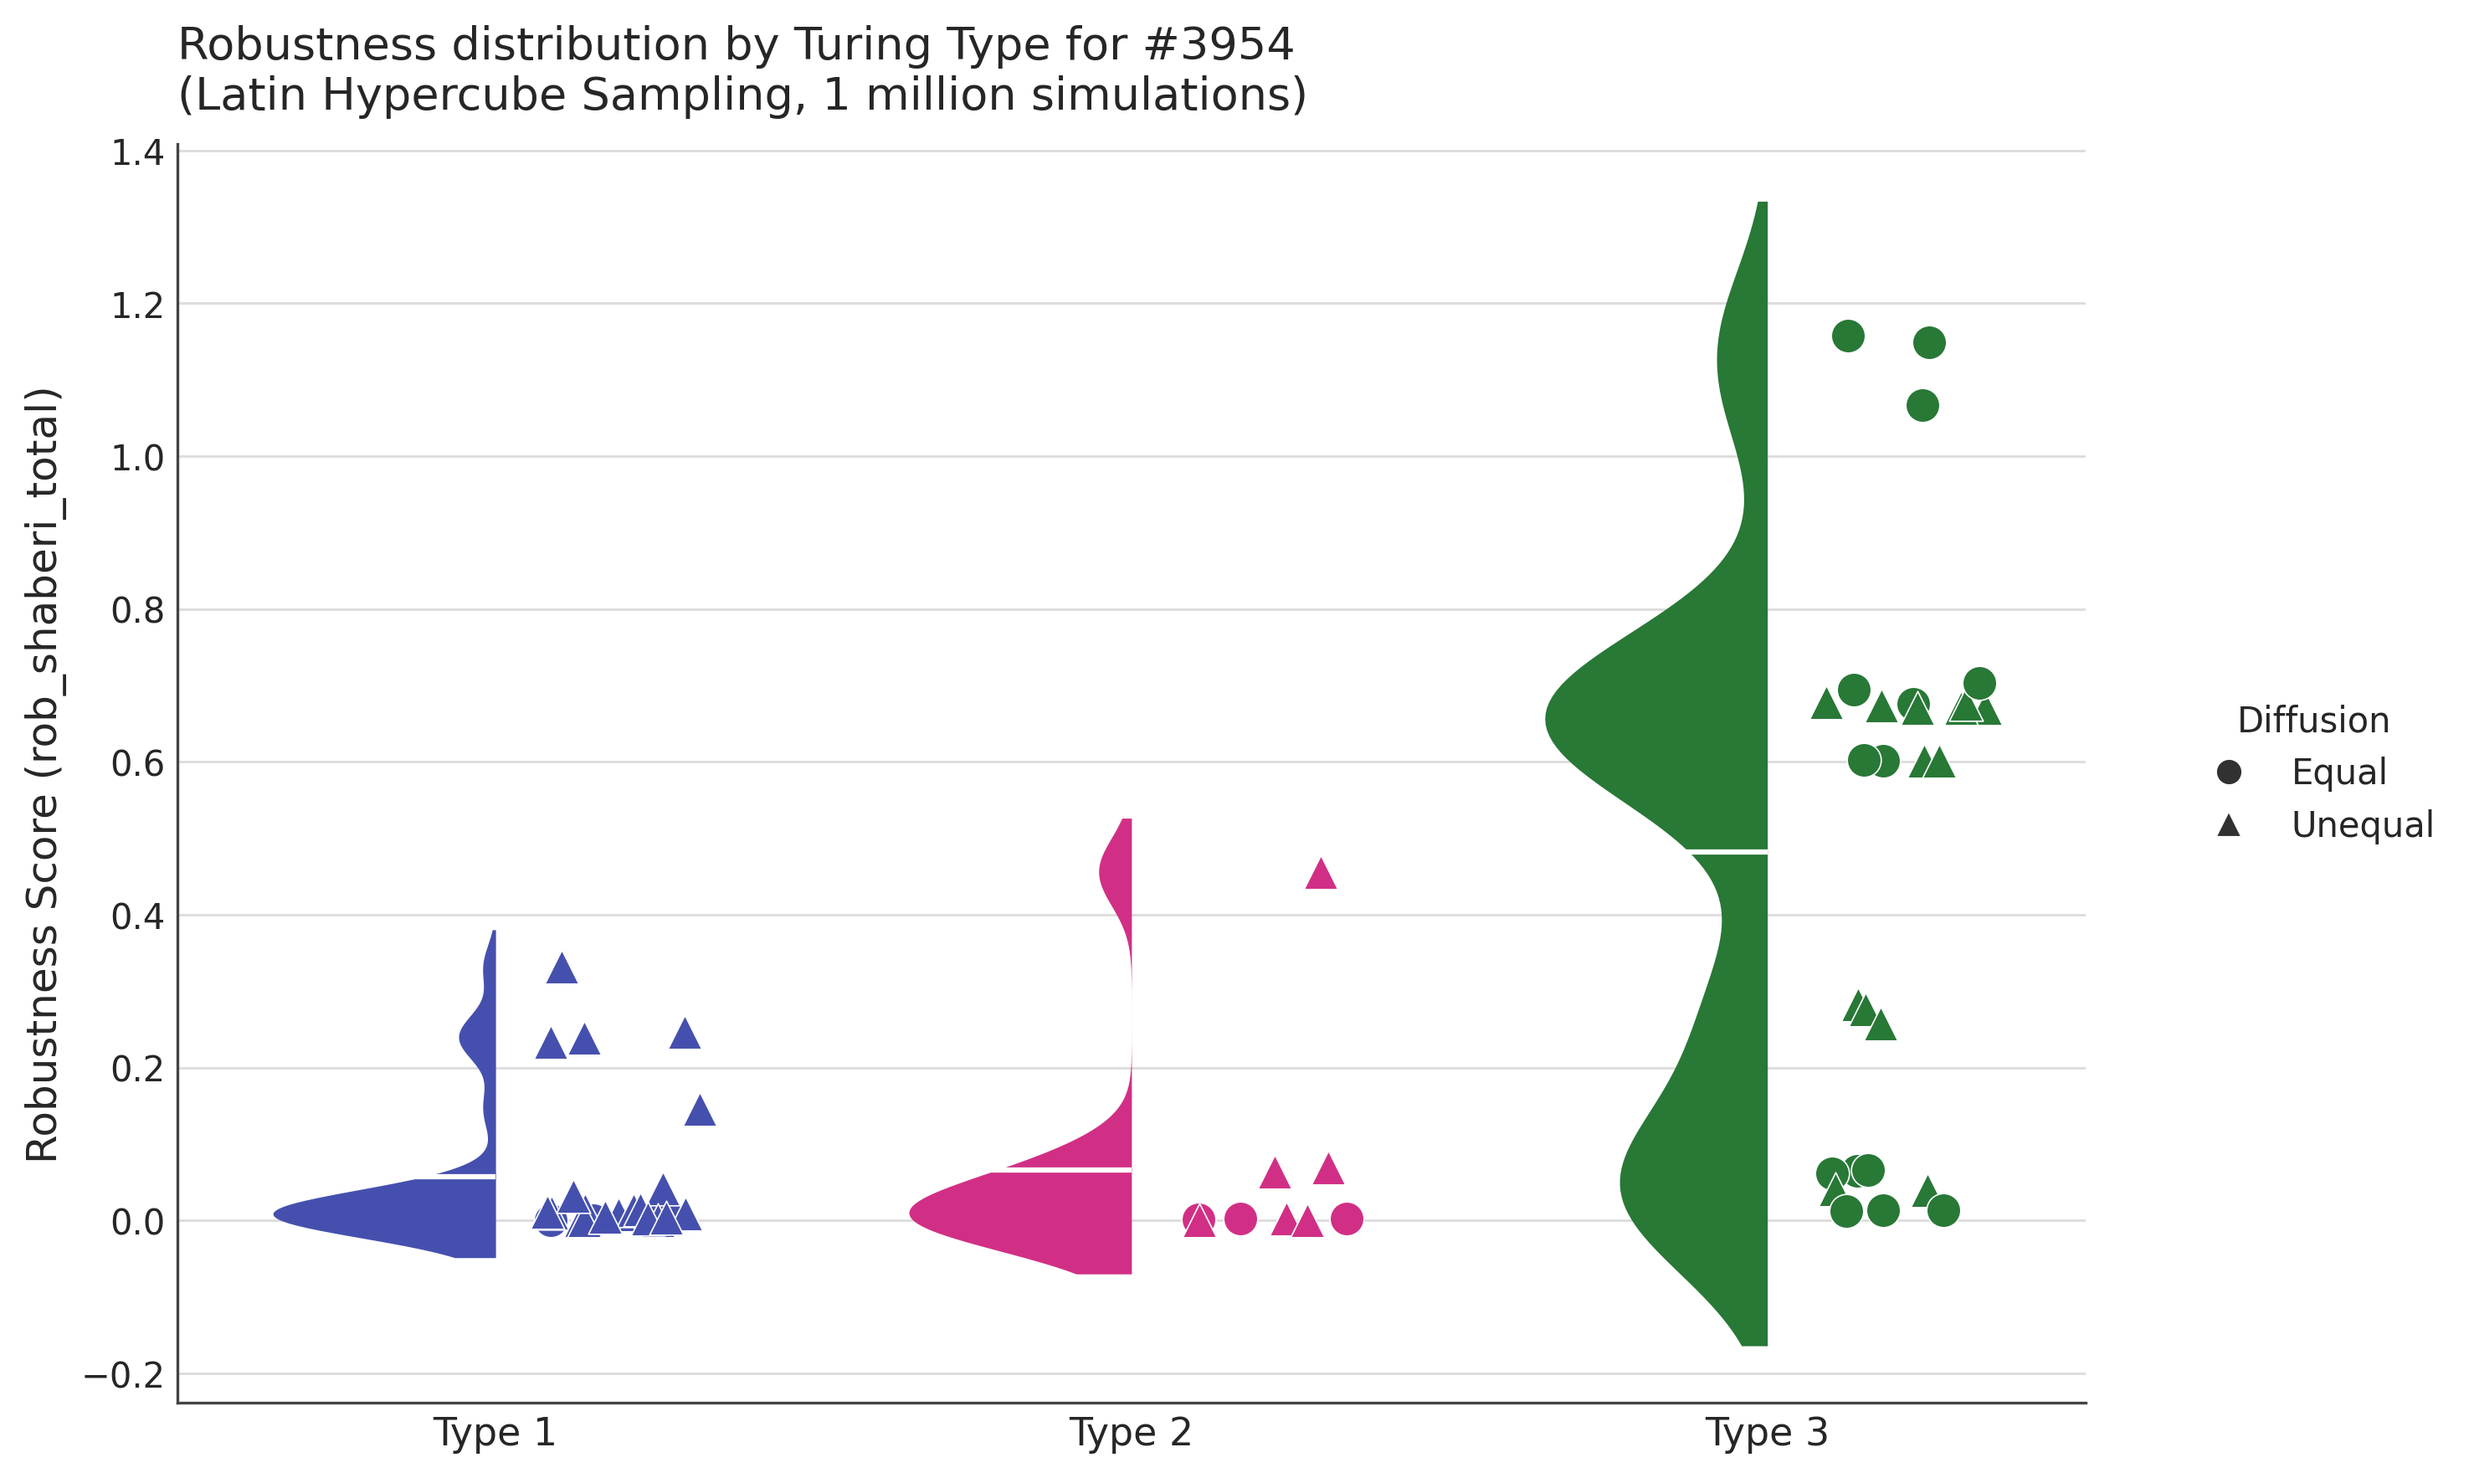
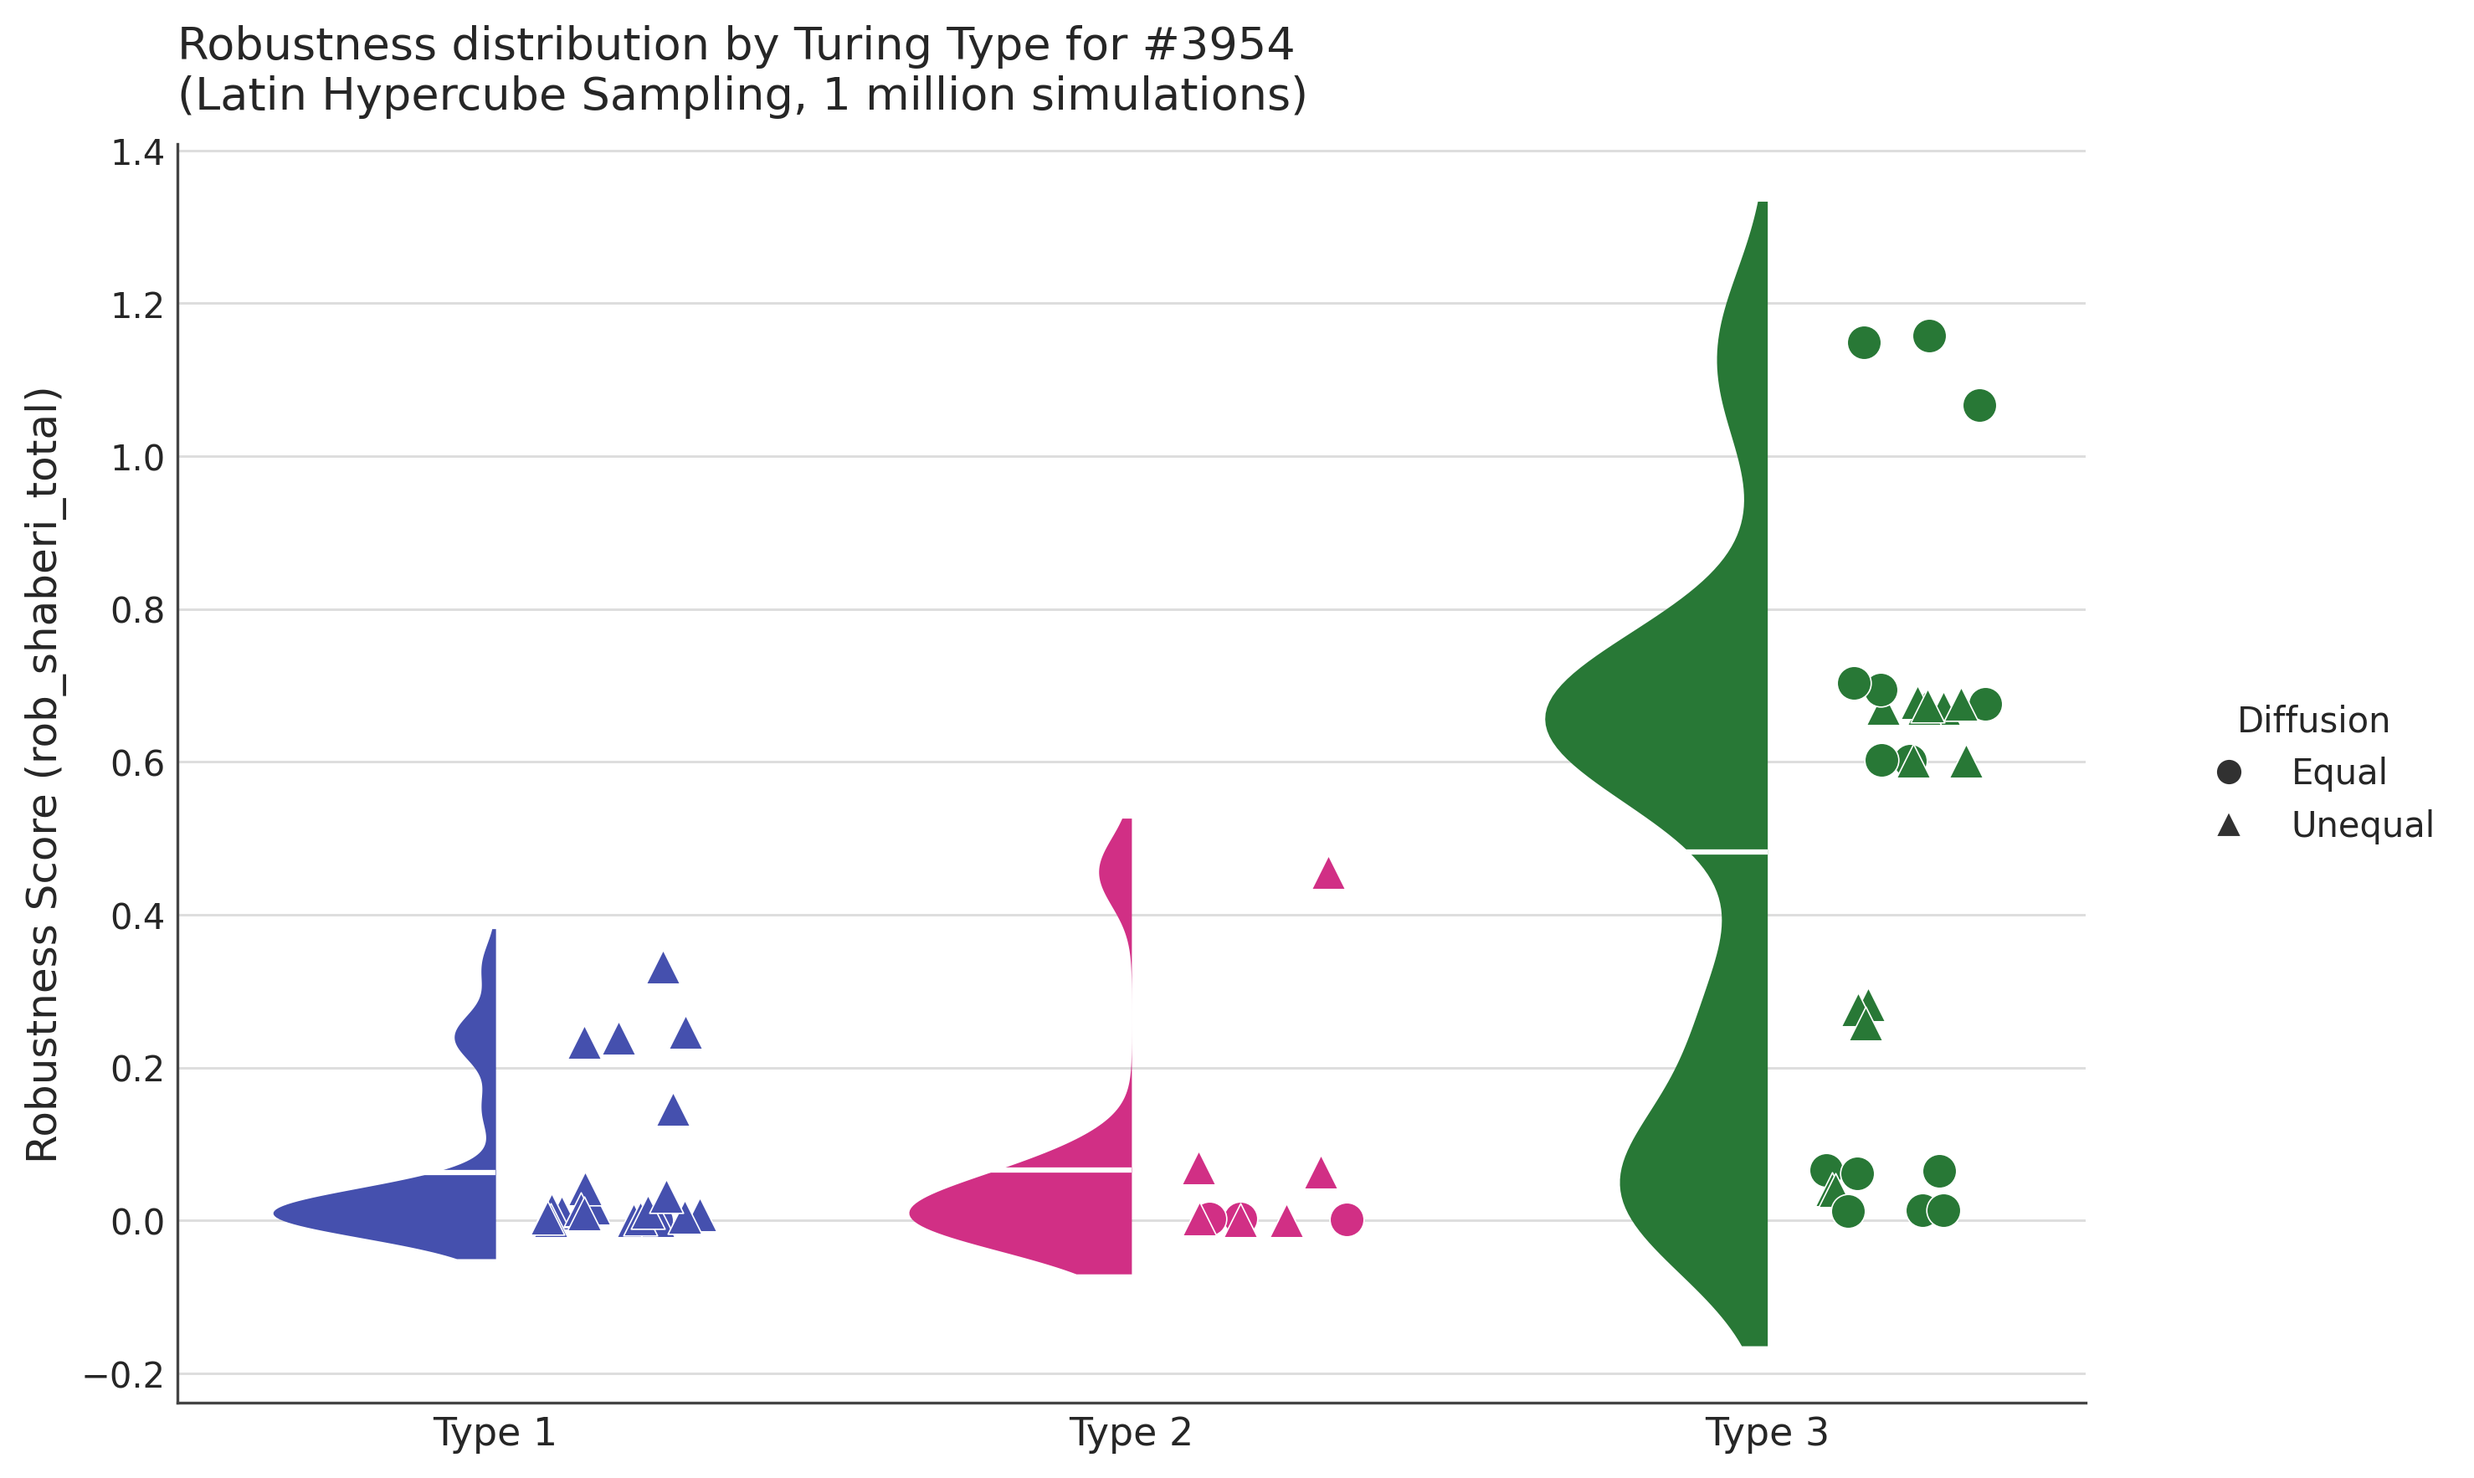
hiiii

diff --git a/TopologyRanking/Topology3954/lhs_plots_results_3954.py b/TopologyRanking/Topology3954/lhs_plots_results_3954.py
@@ -1,17 +1,23 @@
 from pathlib import Path
-import matplotlib.pyplot as plt
-import matplotlib.patches as mpatches
-import pandas as pd
 import random
-import numpy as np
 import ast
 import matplotlib.lines as mlines
+import matplotlib.patches as mpatches
+import matplotlib.pyplot as plt
+import numpy as np
+from scipy.stats import gaussian_kde
+import pandas as pd
 
 # have to run this first: module load matplotlib/3.9.2-gfbf-2024a
 # have to run this first: module load SciPy-bundle/2024.05-gfbf-2024a
 # have to run this first: pip install seaborn --user
 
 CSV = "3954_FILTER_lhs_results_summary.csv"
+# got rid of control: 
+# NEW_LHS_1754_Type1_Control_Fast,2,10.0,10.0,10.0,1000000,991417,984576,0,0,0,0,0,0,0.0,0.0,0.0
+# NEW_LHS_1754_Type1_Control_Slow,0,0.1,0.1,0.1,1000000,991417,984576,0,0,0,0,0,0,0.0,0.0,0.0
+# NEW_LHS_3954_Type1_Control_Slow,0,0.1,0.1,0.1,1000000,969615,951296,0,0,0,0,0,0,0.0,0.0,0.0
+# NEW_LHS_3954_Type1_Control_Fast,2,10.0,10.0,10.0,1000000,969615,951296,0,0,0,0,0,0,0.0,0.0,0.0
 
 OUT_DIR = Path("plots")
 OUT_DIR.mkdir(exist_ok=True)
@@ -66,17 +72,7 @@ def fig1_overview(df):
         linewidth=0.5,
         width=0.75,
     )
-
-    # x-axis labels: strip the "3954_" prefix so they're shorter
-    # ax.set_xticks(range(len(df)))
-    # ax.set_xticklabels(
-    #     df["config_name"].str.replace("NEW_LHS_3954_Type", "", regex=False),
-    #     rotation=55,
-    #     ha="right",
-    #     fontsize=8,
-    # )
-
-        # x-axis labels: strip prefix and "Type" variations
+    # x-axis labels: strip prefix and "Type" variations
     ax.set_xticks(range(len(df)))
     ax.set_xticklabels(
         # The | means OR, and \d* means match zero or more digits (like 1, 2, 3)
@@ -85,7 +81,7 @@ def fig1_overview(df):
         ha="right",
         fontsize=8,
     )
-    
+
     ax.set_ylabel("Robustness Score (in %)", fontsize=11)
     ax.set_title(
         "Robustness of Topologies for #3954\n(Latin Hypercube Sampling, 1 million simulations)",
@@ -101,10 +97,10 @@ def fig1_overview(df):
     ax.yaxis.grid(True)
 
     # Dashed vertical lines between topology groups
-    topos = df["topology"].values
-    for i in range(1, len(topos)):
-        if topos[i] != topos[i - 1]:
-            ax.axvline(i - 0.5, color="grey", linewidth=0.8, linestyle="--", alpha=0.5)
+    # topos = df["turing_type"].values
+    # for i in range(1, len(topos)):
+    #     if topos[i] != topos[i - 1]:
+    #         ax.axvline(i - 0.5, color="grey", linewidth=0.8, linestyle="--", alpha=0.5)
 
     # legend
     handles = [mpatches.Patch(color=c, label=t) for t, c in TYPE_COLORS.items()]
@@ -165,8 +161,6 @@ def fig2_dotplot(df):
 
 
 def fig2_raincloud(df):
-    from scipy.stats import gaussian_kde
-
     random.seed(42)
     types  = ["Type1", "Type2", "Type3"]
     labels = ["Type 1", "Type 2", "Type 3"]
@@ -234,45 +228,8 @@ def fig2_raincloud(df):
     save(fig, "new_3954_lhs_fig2_raincloud")
 
 
-##################################### FIGURE 3: Grouped bars, max robustness per topology × type #####################################
 
-# def fig3_grouped_topology(df):
- 
-#     fig, ax = plt.subplots(figsize=(9, 5))
 
-#     topos = df["topology"].dropna().unique()
-#     types = ["Type1", "Type2", "Type3"]
-#     x     = np.arange(len(topos))
-#     w     = 0.25
- 
-#     for i, t in enumerate(types):
-#         vals = [
-#             df[(df["topology"] == topo) & (df["turing_type"] == t)]["rob_shaberi_total"].max()
-#             for topo in topos
-#         ]
-#         ax.bar(
-#             x + (i - 1) * w,
-#             vals,
-#             width=w,
-#             color=TYPE_COLORS[t],
-#             label=t,
-#             edgecolor="white",
-#             linewidth=0.5,
-#         )
- 
-#     ax.set_xticks(x)
-#     ax.set_xticklabels(topos, fontsize=11)
-#     ax.set_ylabel("Max Robustness Score (in %, Shaberi Method)", fontsize=11)
-#     ax.set_title(
-#         "Max robustness for #3954 Topology\n(Latin Hypercube Sampling, 1 million simulations)",
-#         fontsize=12, loc="left", pad=10,
-#     )
-#     ax.xaxis.grid(False)
-#     ax.legend(title="Turing Type", frameon=False,
-#               loc="upper center", bbox_to_anchor=(0.5, -0.12), ncol=3)
- 
-#     fig.tight_layout()
-#     save(fig, "new_3954_lhs_fig3_grouped_topology")
 
 
 
@@ -318,6 +275,204 @@ def fig4_diego_vs_shaberi(df):
 
 
 
+# PLOT FOR THESIS
+
+def fig_combined_overview_and_raincloud(df):
+    df = df.copy()
+
+    # 1. Create a 2-row, 1-column layout (reverting to your preferred full-width rows)
+    fig, (ax1, ax2) = plt.subplots(2, 1, figsize=(14,10)) #previously 14,10, size has to be figsize=(6.3, 5.4) to match dina4 age but liek its sooo small
+
+    # ==========================================
+    # PANEL 1: OVERVIEW BAR CHART (ax1)
+    # ==========================================
+    colors = df["turing_type"].map(TYPE_COLORS).fillna("#aaaaaa")
+
+    ax1.bar(
+        range(len(df)),
+        df["rob_shaberi_total"],
+        color=colors,
+        edgecolor="white",
+        linewidth=0.5,
+        width=0.75,
+    )
+
+    ax1.set_xticks(range(len(df)))
+    ax1.set_xticklabels(
+        df["config_name"].str.replace(
+            r"NEW_LHS_3954_|Type\d*_", "", regex=True
+        ),
+        rotation=55,
+        ha="right",
+        fontsize=8,
+    )
+
+    #ax1.set_ylabel("Robustness Score (in %)", fontsize=11)
+    ax1.set_ylabel("Robustness Score (in %)", fontsize=11, labelpad=12)
+    ax1.set_title(
+        "Latin Hypercube Sampling Results, 1 million simulations\nRobustness of different diffusion rate configurations for Topology #3954",
+        fontsize=12,
+        loc="left",
+        pad=10,
+        fontweight="semibold",
+    )
+    ax1.spines[["top", "right"]].set_visible(False)
+    ax1.set_xlim(-0.5, len(df) - 0.5)
+
+    ax1.xaxis.grid(False)
+    ax1.yaxis.grid(True)
+
+    # Dashed grouping splitters
+    # topos = df["topology"].values
+    # for i in range(1, len(topos)):
+    #     if topos[i] != topos[i - 1]:
+    #         ax1.axvline(
+    #             i - 0.5,
+    #             color="grey",
+    #             linewidth=0.8,
+    #             linestyle="--",
+    #             alpha=0.5,
+    #         )
+
+    # ==========================================
+    # PANEL 2: RAINCLOUD DISTRIBUTION (ax2)
+    # ==========================================
+    random.seed(42)
+    types = ["Type1", "Type2", "Type3"]
+    labels = ["Type 1", "Type 2", "Type 3"]
+
+    for i, (t, label) in enumerate(zip(types, labels)):
+        subset = (
+            df[df["turing_type"] == t]["rob_shaberi_total"].dropna().values
+        )
+
+        if len(subset) < 2:
+            continue
+
+        color = TYPE_COLORS[t]
+
+        # Half violin distribution cloud
+        kde = gaussian_kde(subset, bw_method=0.3)
+        y_range = np.linspace(
+            subset.min() - subset.std() * 0.5,
+            subset.max() + subset.std() * 0.5,
+            200,
+        )
+        kde_vals = kde(y_range)
+        kde_vals = kde_vals / kde_vals.max() * 0.35
+
+        ax2.fill_betweenx(
+            y_range, i - kde_vals, i, color=color, alpha=1.0, linewidth=0
+        )
+
+        # White mean bar inside the cloud
+        ax2.hlines(
+            subset.mean(), i - 0.35, i, color="white", linewidth=1.5, zorder=4
+        )
+
+        # Jittered data dots
+        for val in subset:
+            jitter = i + random.uniform(0.08, 0.35)
+            marker = (
+                "^"
+                if any(
+                    "Unequal" in row["config_name"]
+                    for _, row in df[
+                        (df["turing_type"] == t) & (df["rob_shaberi_total"] == val)
+                    ].iterrows()
+                )
+                else "o"
+            )
+            ax2.scatter(
+                jitter,
+                val,
+                color=color,
+                marker=marker,
+                s=95,
+                edgecolors="white",
+                linewidths=0.4,
+                zorder=3,
+            )
+
+    ax2.set_xticks(range(len(types)))
+    ax2.set_xticklabels(labels, fontsize=11)
+    #ax2.set_ylabel("Robustness Score (rob_shaberi_total)", fontsize=11)
+    ax2.set_ylabel("Robustness Score (rob_shaberi_total)", fontsize=11, labelpad=12)
+    ax2.set_title(
+        "Robustness distribution by Turing Type for Topology #3954",
+        fontsize=12,
+        loc="left",
+        pad=10,
+        fontweight="semibold",
+    )
+    ax2.xaxis.grid(False)
+    ax2.yaxis.grid(True)
+    ax2.set_xlim(-0.5, len(types) - 0.5)
+    ax2.spines[["top", "right"]].set_visible(False)
+
+    # ==========================================
+    # GLOBAL UNIFIED BOTTOM LEGENDS
+    # ==========================================
+    # 1. Reconstruct handles for both legend elements
+    bar_handles = [
+        mpatches.Patch(color=c, label=t) for t, c in TYPE_COLORS.items()
+    ]
+    rain_handles = [
+        mlines.Line2D(
+            [],
+            [],
+            color="#313131",
+            marker="o",
+            linestyle="None",
+            markersize=8,
+            markeredgecolor="white",
+            label="Equal Diffusion",
+        ),
+        mlines.Line2D(
+            [],
+            [],
+            color="#313131",
+            marker="^",
+            linestyle="None",
+            markersize=8,
+            markeredgecolor="white",
+            label="Unequal Diffusion",
+        ),
+    ]
+
+    # 2. Draw the Turing Type legend (Left-aligned at the bottom center)
+    fig.legend(
+        handles=bar_handles,
+        title="Turing Type",
+        frameon=False,
+        loc="lower center",
+        bbox_to_anchor=(0.38, 0.04),
+        ncol=3,
+        fontsize=10,
+    )
+
+    # 3. Draw the Diffusion shape legend (Right-aligned at the bottom center)
+    fig.legend(
+        handles=rain_handles,
+        title="Diffusion Variant",
+        frameon=False,
+        loc="lower center",
+        bbox_to_anchor=(0.68, 0.04),
+        ncol=2,
+        fontsize=10,
+    )
+
+    # ==========================================
+    # GLOBAL SPACING LAYOUT BOUNDS
+    # ==========================================
+    # right=0.95 expands the plots to use the full canvas width now that the right margins are free
+    # bottom=0.14 leaves open white space below the plots specifically for the two legends
+    fig.subplots_adjust(left=0.07, right=0.95, top=0.94, bottom=0.14, hspace=0.42)
+    #fig.align_ylabels([ax1, ax2])
+    save(fig, "thesis_combined_3954_lhs_overview_distribution")
+
+
+
 
 
 
@@ -328,5 +483,5 @@ df = load_data()
 fig1_overview(df)
 fig2_dotplot(df)
 fig2_raincloud(df)
-# fig3_grouped_topology(df)
 fig4_diego_vs_shaberi(df)
+fig_combined_overview_and_raincloud(df) 
